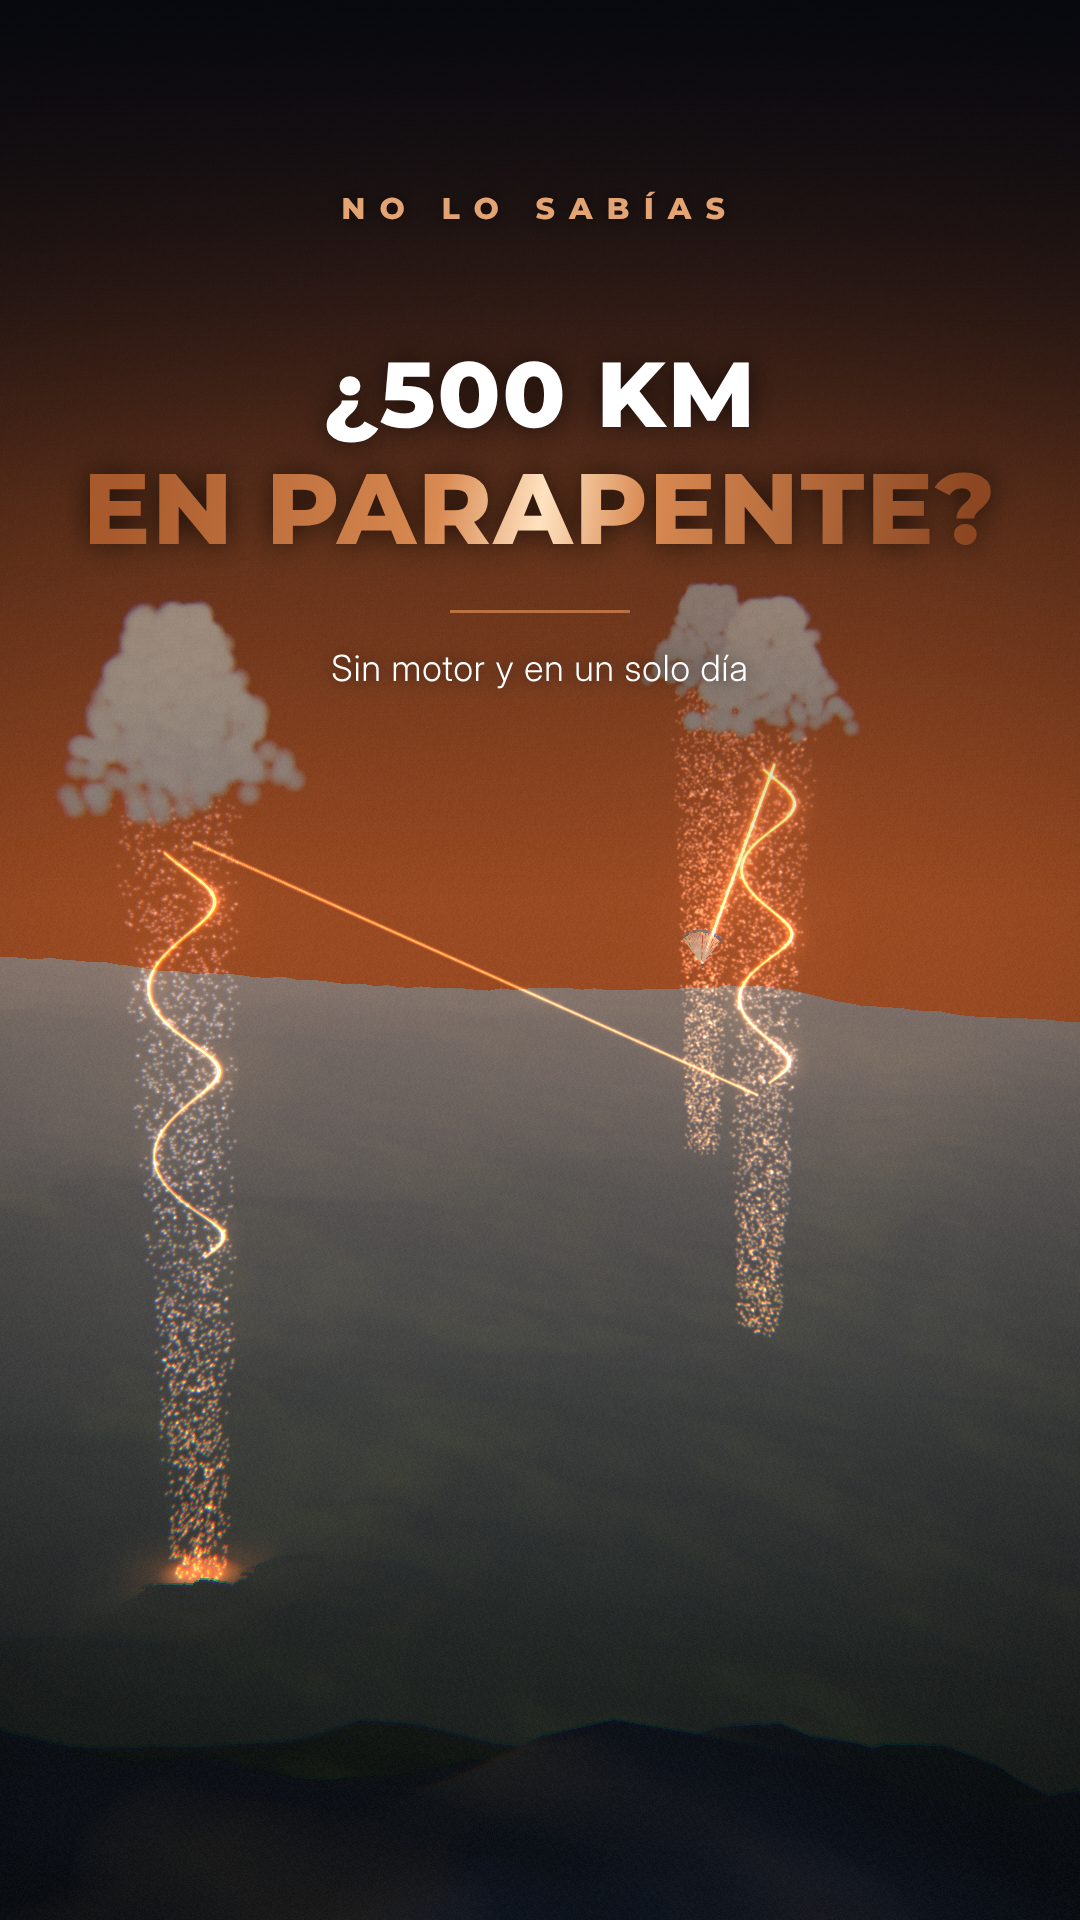
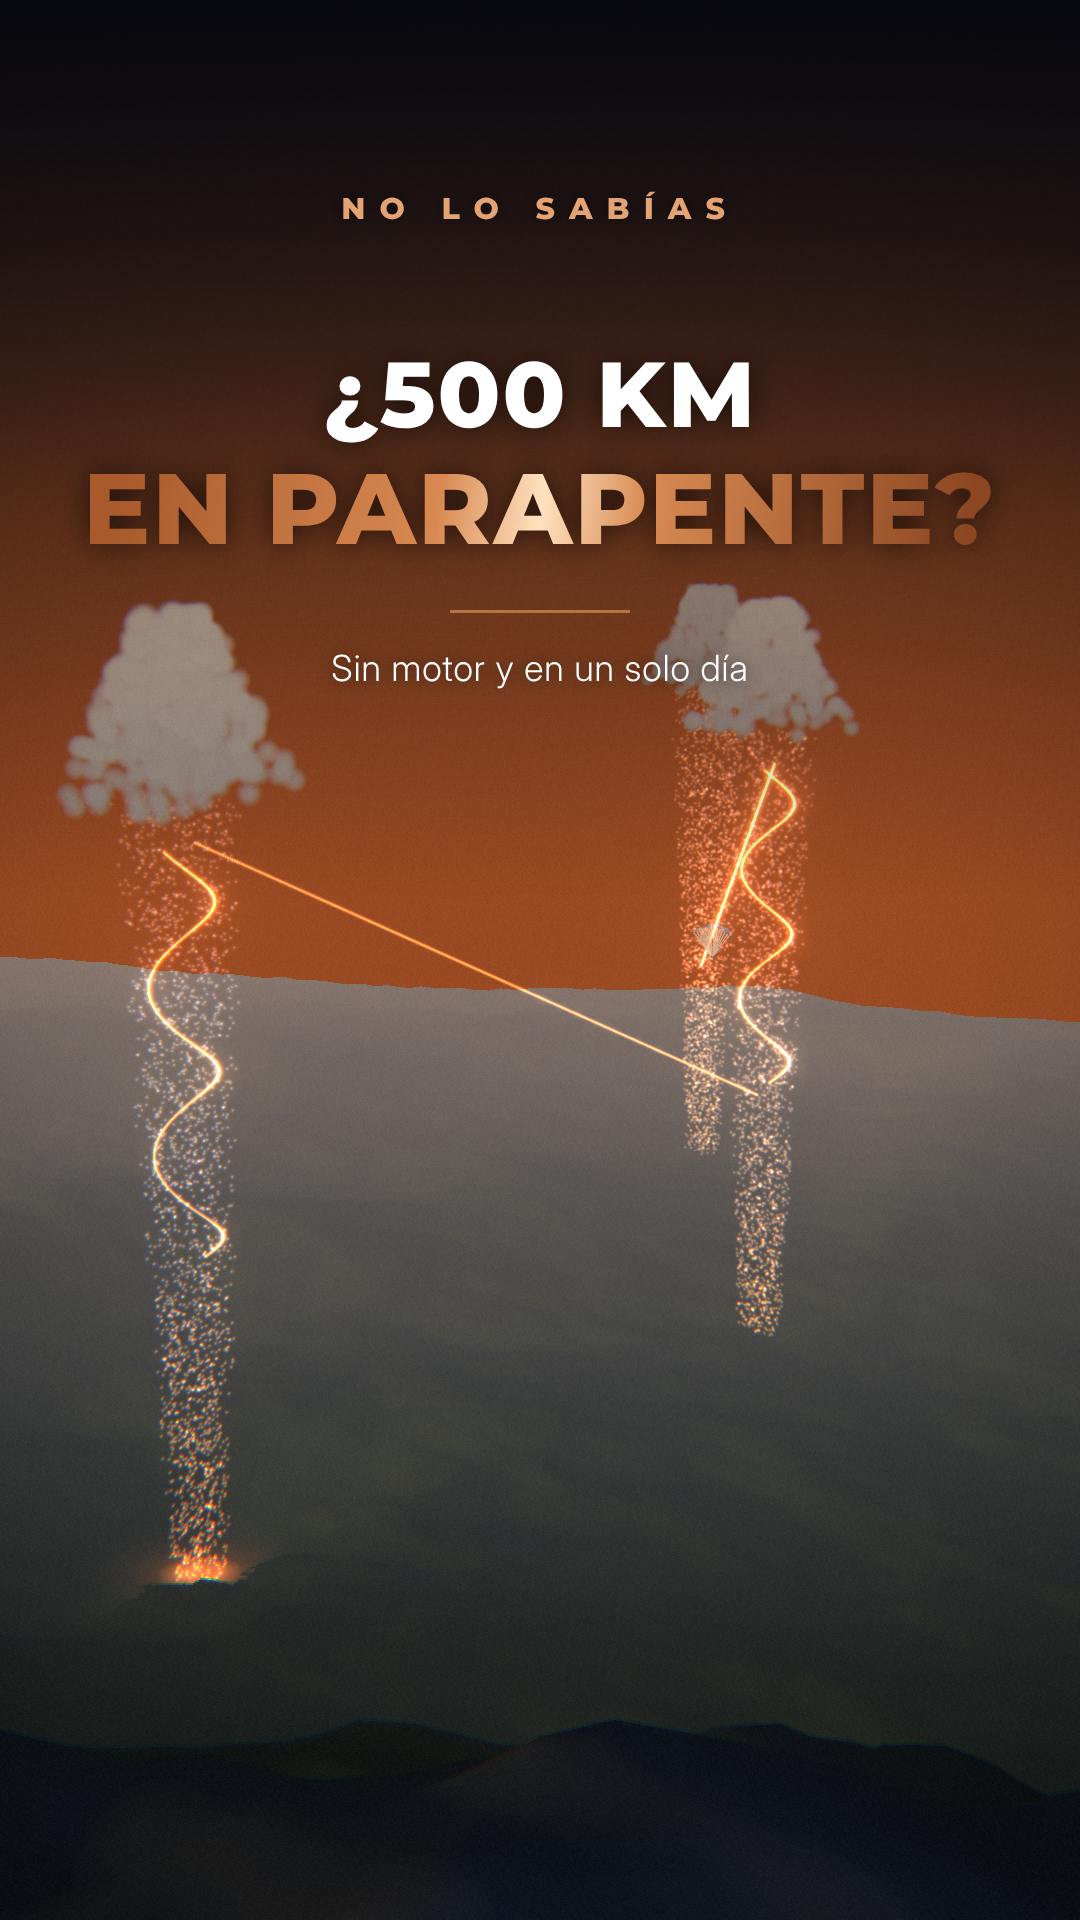
Parapente 2: narración con la voz ElevenLabs Álvaro de siempre (se descarta Edge TTS)
Claude-Session: https://claude.ai/code/session_01CB9p5i5uZogZ8BC8xKFYSG

Changed region(s): [[0.1528, 0.5312, 0.2139, 0.8125], [0.6722, 0.5938, 0.7333, 0.6875], [0.6417, 0.4688, 0.6722, 0.5312]]

diff --git a/serie1/parapente2/cues.py b/serie1/parapente2/cues.py
@@ -1,31 +1,31 @@
-# Vídeo parapente 2 · Cómo se vuelan 500 km sin motor — voz Edge TTS es-ES-AlvaroNeural (+20 %), una frase por archivo
-K = 1.0
+# Vídeo parapente 2 · Cómo se vuelan 500 km sin motor — voz ElevenLabs eleven_v4 «Álvaro» (1 toma, ×1,2); cortes por silencios
+K = 1.2
 CUES = [
- (0.1, 1.25, 'Más de 500 kilómetros.'),
- (1.45, 5.01, 'En parapente. Sin motor.\nEn un solo día.'),
- (5.21, 7.18, 'Casi como ir de Madrid\na Barcelona… volando.'),
- (7.58, 9.13, '¿Cómo, si un parapente\nsiempre baja?'),
- (9.28, 11.42, 'Saltando de una corriente\nde aire que sube a otra.'),
- (11.82, 14.89, 'Cuando el viento choca contra\nuna ladera, no tiene otra salida: sube.'),
- (15.14, 18.78, 'Es la dinámica. Con ella puedes pasar\nhoras sobre la misma montaña.'),
- (19.18, 22.69, 'Pero para viajar necesitas térmicas:\nburbujas de aire caliente\nque despegan del suelo.'),
- (22.94, 25.74, 'Subes girando dentro… y arriba\nsales disparado hacia la siguiente.'),
- (26.19, 27.08, '¿Y cómo vas más rápido?'),
- (27.23, 29.5, 'Con el acelerador: una barra\nque empujas con los pies.'),
- (29.7, 35.12, 'Baja el borde de delante,\nel ala ataca el aire más plana…\ny pasas de 38 a más de 50 km/h.'),
- (35.37, 37.57, 'Pero cuanto más rápido vas,\nmás deprisa bajas.'),
- (37.82, 40.16, 'Así que en cada tramo decides:\ncorrer, o flotar.'),
- (40.61, 42.23, 'Y el mejor aliado es el viento a favor.'),
- (42.43, 45.72, 'Si sopla a 30 km/h,\ncada planeo te regala 30 más.'),
- (46.17, 47.8, 'Y cuando el viento pone las nubes en fila…'),
- (47.85, 51.3, 'aparecen las calles de nubes: kilómetros\nde aire que sube, en línea recta.'),
- (51.5, 52.54, 'Ahí se vuela sin girar.'),
- (52.99, 56.98, 'Así se baten los récords en Brasil:\nmás de 10 horas en el aire,\nde la mañana al atardecer.'),
- (57.48, 61.9, '¿Y tú? ¿Cuál ha sido tu vuelo más largo?\nCuéntanoslo en comentarios.'),
- (62.8, 63.45, '¿NO LO SABÍAS?'),
- (63.53, 64.79, 'El mundo tiene más historias.'),
+ (0.05, 1.79, 'Más de 500 kilómetros.'),
+ (2.13, 5.27, 'En parapente. Sin motor.\nEn un solo día.'),
+ (5.83, 8.27, 'Casi como ir de Madrid\na Barcelona… volando.'),
+ (8.90, 10.67, '¿Cómo, si un parapente\nsiempre baja?'),
+ (11.16, 13.68, 'Saltando de una corriente\nde aire que sube a otra.'),
+ (14.18, 17.08, 'Cuando el viento choca contra\nuna ladera, no tiene otra salida: sube.'),
+ (17.50, 22.04, 'Es la dinámica. Con ella puedes pasar\nhoras sobre la misma montaña.'),
+ (22.51, 27.23, 'Pero para viajar necesitas térmicas:\nburbujas de aire caliente\nque despegan del suelo.'),
+ (27.69, 31.47, 'Subes girando dentro… y arriba\nsales disparado hacia la siguiente.'),
+ (31.93, 32.97, '¿Y cómo vas más rápido?'),
+ (33.37, 36.25, 'Con el acelerador: una barra\nque empujas con los pies.'),
+ (36.59, 43.31, 'Baja el borde de delante,\nel ala ataca el aire más plana…\ny pasas de 38 a más de 50 km/h.'),
+ (43.78, 46.23, 'Pero cuanto más rápido vas,\nmás deprisa bajas.'),
+ (46.47, 49.54, 'Así que en cada tramo decides:\ncorrer, o flotar.'),
+ (50.01, 51.93, 'Y el mejor aliado es el viento a favor.'),
+ (52.37, 56.35, 'Si sopla a 30 km/h,\ncada planeo te regala 30 más.'),
+ (56.71, 58.62, 'Y cuando el viento pone las nubes en fila…'),
+ (58.98, 63.45, 'aparecen las calles de nubes: kilómetros\nde aire que sube, en línea recta.'),
+ (63.88, 65.19, 'Ahí se vuela sin girar.'),
+ (65.73, 70.84, 'Así se baten los récords en Brasil:\nmás de 10 horas en el aire,\nde la mañana al atardecer.'),
+ (71.33, 74.99, '¿Y tú? ¿Cuál ha sido tu vuelo más largo?\nCuéntanoslo en comentarios.'),
+ (75.50, 76.25, '¿NO LO SABÍAS?'),
+ (76.61, 78.47, 'El mundo tiene más historias.'),
 ]
-MARKS = {'hook': 0.1, 'nomotor': 1.452, 'madrid': 5.21, 'how': 7.58, 'jump': 9.284, 'ridge': 11.816, 'dyn': 15.139, 'therm': 19.178, 'climb': 22.939, 'faster': 26.187, 'bar': 27.235, 'nose': 29.7, 'sink': 35.371, 'choose': 37.815, 'wind': 40.613, 'plus': 42.434, 'line': 46.171, 'streets': 47.849, 'straight': 51.498, 'brazil': 52.986, 'you': 57.482, 'brand': 62.799, 'tag': 63.533, 'end': 64.793}
+MARKS = {'hook': 0.0, 'nomotor': 2.134, 'madrid': 5.832, 'how': 8.896, 'jump': 11.158, 'ridge': 14.175, 'dyn': 17.499, 'therm': 22.512, 'climb': 27.693, 'faster': 31.927, 'bar': 33.375, 'nose': 36.594, 'sink': 43.776, 'choose': 46.471, 'wind': 50.007, 'plus': 52.373, 'line': 56.712, 'streets': 58.978, 'straight': 63.879, 'brazil': 65.732, 'you': 71.333, 'brand': 75.499, 'tag': 76.614, 'end': 78.47}
 MUSIC = dict(seed=47, sections=[('hook', 'Dsus'), ('how', 'Gm'), ('ridge', 'D'), ('therm', 'Bb'), ('faster', 'Gm'), ('nose', 'F'), ('choose', 'Bb'),
              ('wind', 'D'), ('line', 'F'), ('streets', 'C'), ('brazil', 'Bb'), ('you', 'D'), ('brand', 'END')],
              shimmer=('ridge', 'end'), pulses=[('nose', 'sink', .5)],

diff --git a/serie1/parapente2/docs/guion.md b/serie1/parapente2/docs/guion.md
@@ -1,36 +1,36 @@
 # ¿500 km en parapente sin motor? — Guion de narración
 
-**Formato:** Reel/TikTok vertical 9:16 · 1080×1920 · 30 fps · ≈66 s
-**Voz (PRUEBA):** Microsoft Edge TTS, voz neuronal gratuita **es-ES-AlvaroNeural**, velocidad +20 %, una frase por archivo (generada en el PC con `edge_voz.py`). Sin acelerar en montaje. Voz siempre por delante: música y efectos se agachan bajo la voz; máster a −14 LUFS.
+**Formato:** Reel/TikTok vertical 9:16 · 1080×1920 · 30 fps · ≈67 s
+**Voz:** ElevenLabs eleven_v4, voz «Álvaro», una toma; montaje acelerado ×1,2 sin cambiar el tono. Voz siempre por delante: música y efectos se agachan bajo la voz; máster a −14 LUFS. (Se probó la voz gratuita de Edge y se descartó.)
 **Ángulo:** segundo vídeo de parapente: el vuelo de distancia (cross-country). Curiosidad encadenada y pregunta a la comunidad al final; sin accidentes.
 
 ## Narración con tiempos
 
 | Tiempo (s) | Narración |
 |---|---|
-| 0,1–1,2 | Más de 500 kilómetros. |
-| 1,4–5,0 | En parapente. Sin motor. En un solo día. |
-| 5,2–7,2 | Casi como ir de Madrid a Barcelona… volando. |
-| 7,6–9,1 | ¿Cómo, si un parapente siempre baja? |
+| 0,0–1,5 | Más de 500 kilómetros. |
+| 1,8–4,4 | En parapente. Sin motor. En un solo día. |
+| 4,9–6,9 | Casi como ir de Madrid a Barcelona… volando. |
+| 7,4–8,9 | ¿Cómo, si un parapente siempre baja? |
 | 9,3–11,4 | Saltando de una corriente de aire que sube a otra. |
-| 11,8–14,9 | Cuando el viento choca contra una ladera, no tiene otra salida: sube. |
-| 15,1–18,8 | Es la dinámica. Con ella puedes pasar horas sobre la misma montaña. |
-| 19,2–22,7 | Pero para viajar necesitas térmicas: burbujas de aire caliente que despegan del suelo. |
-| 22,9–25,7 | Subes girando dentro… y arriba sales disparado hacia la siguiente. |
-| 26,2–27,1 | ¿Y cómo vas más rápido? |
-| 27,2–29,5 | Con el acelerador: una barra que empujas con los pies. |
-| 29,7–35,1 | Baja el borde de delante, el ala ataca el aire más plana… y pasas de 38 a más de 50 km/h. |
-| 35,4–37,6 | Pero cuanto más rápido vas, más deprisa bajas. |
-| 37,8–40,2 | Así que en cada tramo decides: correr, o flotar. |
-| 40,6–42,2 | Y el mejor aliado es el viento a favor. |
-| 42,4–45,7 | Si sopla a 30 km/h, cada planeo te regala 30 más. |
-| 46,2–47,8 | Y cuando el viento pone las nubes en fila… |
-| 47,9–51,3 | aparecen las calles de nubes: kilómetros de aire que sube, en línea recta. |
-| 51,5–52,5 | Ahí se vuela sin girar. |
-| 53,0–57,0 | Así se baten los récords en Brasil: más de 10 horas en el aire, de la mañana al atardecer. |
-| 57,5–61,9 | ¿Y tú? ¿Cuál ha sido tu vuelo más largo? Cuéntanoslo en comentarios. |
-| 62,8–63,5 | ¿NO LO SABÍAS? |
-| 63,5–64,8 | El mundo tiene más historias. |
+| 11,8–14,2 | Cuando el viento choca contra una ladera, no tiene otra salida: sube. |
+| 14,6–18,4 | Es la dinámica. Con ella puedes pasar horas sobre la misma montaña. |
+| 18,8–22,7 | Pero para viajar necesitas térmicas: burbujas de aire caliente que despegan del suelo. |
+| 23,1–26,2 | Subes girando dentro… y arriba sales disparado hacia la siguiente. |
+| 26,6–27,5 | ¿Y cómo vas más rápido? |
+| 27,8–30,2 | Con el acelerador: una barra que empujas con los pies. |
+| 30,5–36,1 | Baja el borde de delante, el ala ataca el aire más plana… y pasas de 38 a más de 50 km/h. |
+| 36,5–38,5 | Pero cuanto más rápido vas, más deprisa bajas. |
+| 38,7–41,3 | Así que en cada tramo decides: correr, o flotar. |
+| 41,7–43,3 | Y el mejor aliado es el viento a favor. |
+| 43,6–47,0 | Si sopla a 30 km/h, cada planeo te regala 30 más. |
+| 47,3–48,9 | Y cuando el viento pone las nubes en fila… |
+| 49,1–52,9 | aparecen las calles de nubes: kilómetros de aire que sube, en línea recta. |
+| 53,2–54,3 | Ahí se vuela sin girar. |
+| 54,8–59,0 | Así se baten los récords en Brasil: más de 10 horas en el aire, de la mañana al atardecer. |
+| 59,4–62,5 | ¿Y tú? ¿Cuál ha sido tu vuelo más largo? Cuéntanoslo en comentarios. |
+| 62,9–63,5 | ¿NO LO SABÍAS? |
+| 63,8–65,4 | El mundo tiene más historias. |
 
 ## Visual por escenas
 
